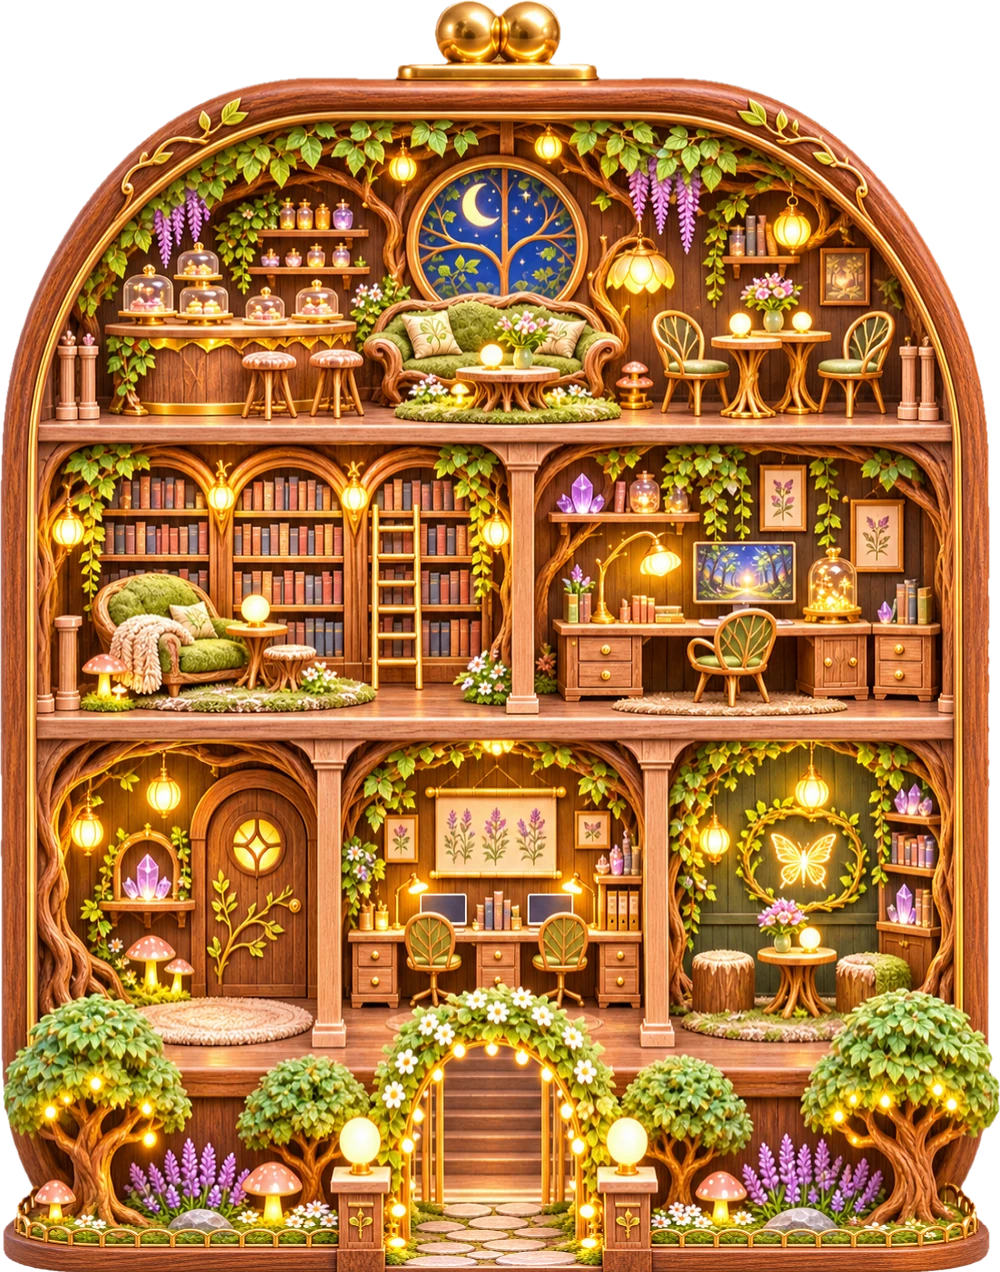
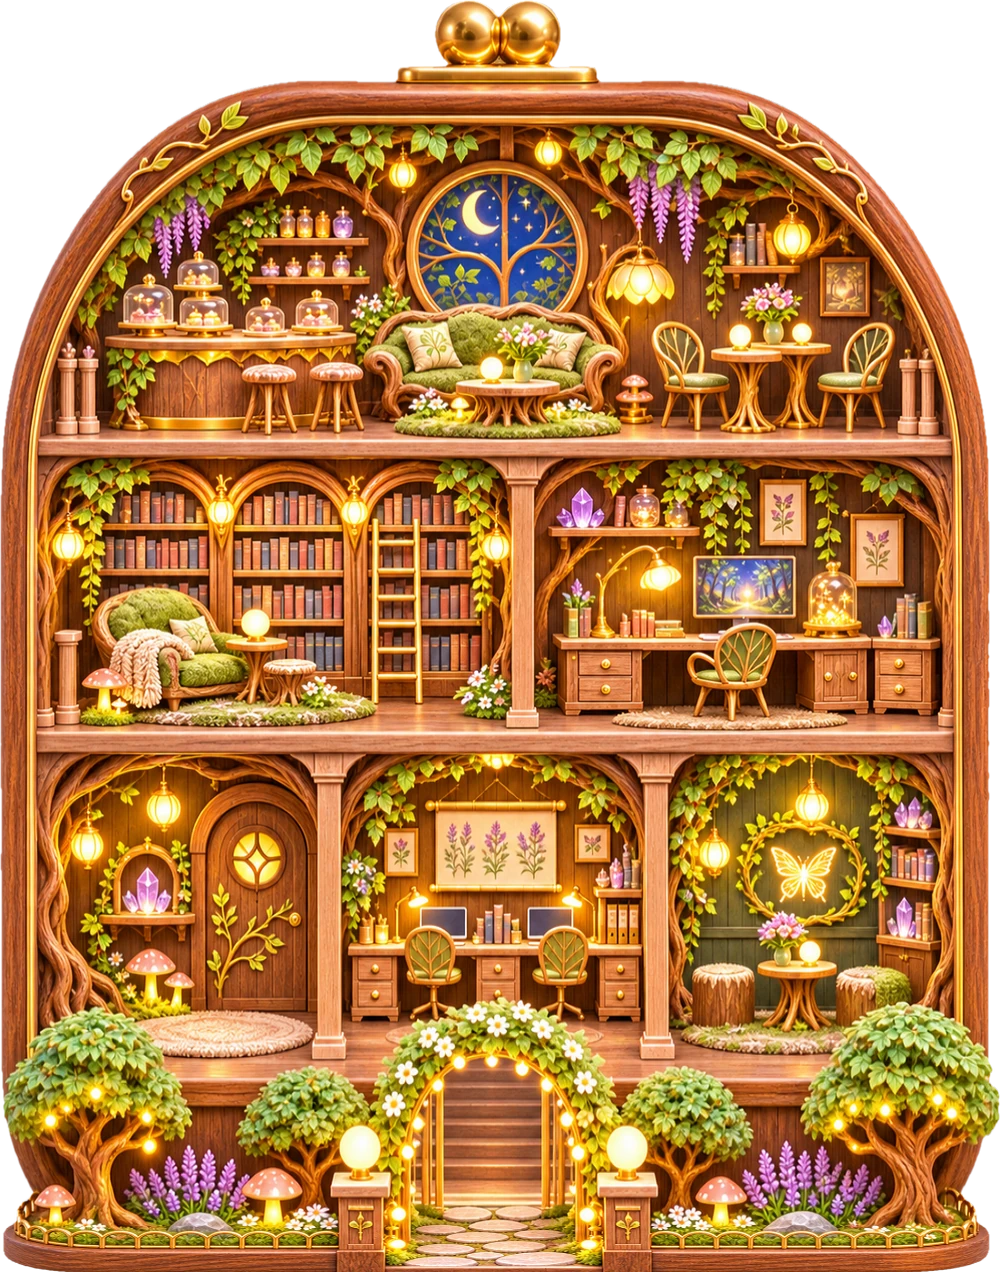
나무 하우스를 14px 내려 아바타가 층 앞쪽 끝을 넘지 않게
Claude-Session: https://claude.ai/code/session_011wWXPaiuu8PZPFdYFKdKKY

diff --git a/tools/process_assets.py b/tools/process_assets.py
@@ -162,7 +162,7 @@ _OLD_SHIFT = {
     'wood': [(0, 0), (408, 9), (690, 14), (1002, -17), (1212, -62), (1272, -22)],
     'sea': [(0, 0), (408, -11), (690, -8), (1002, -17), (1212, -62), (1272, -22)],
 }
-_RUG_MOVE = {'wood': (-21, -28, -17), 'sea': (-16, -21, -27)}
+_RUG_MOVE = {'wood': (-35, -42, -31), 'sea': (-16, -21, -27)}
 
 
 def _skin_shift(key):
